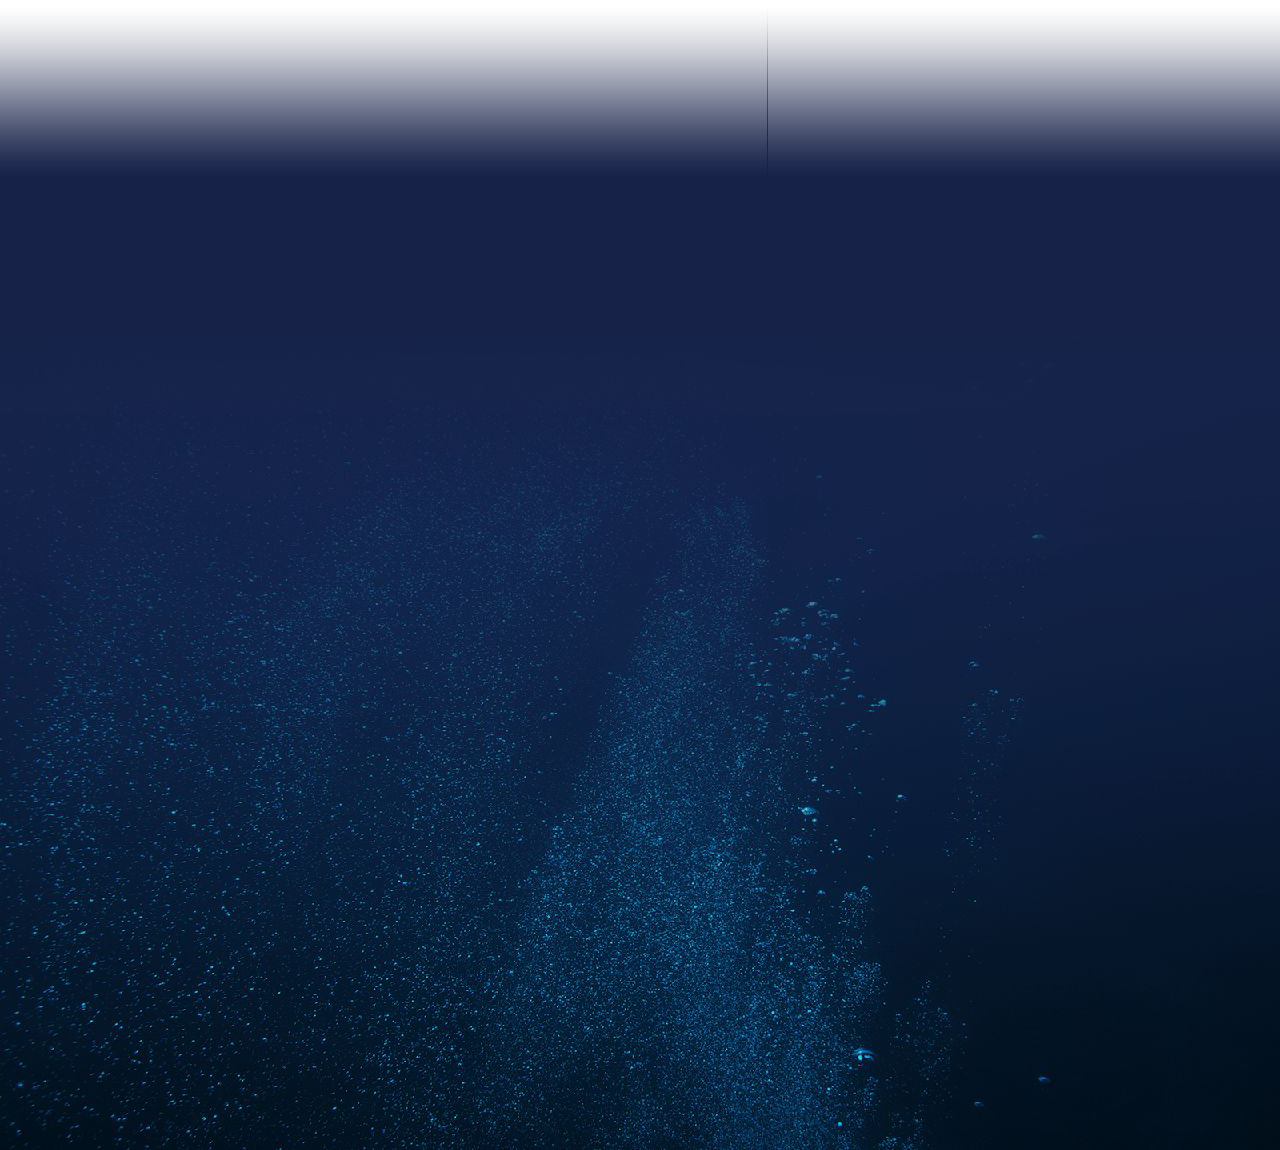
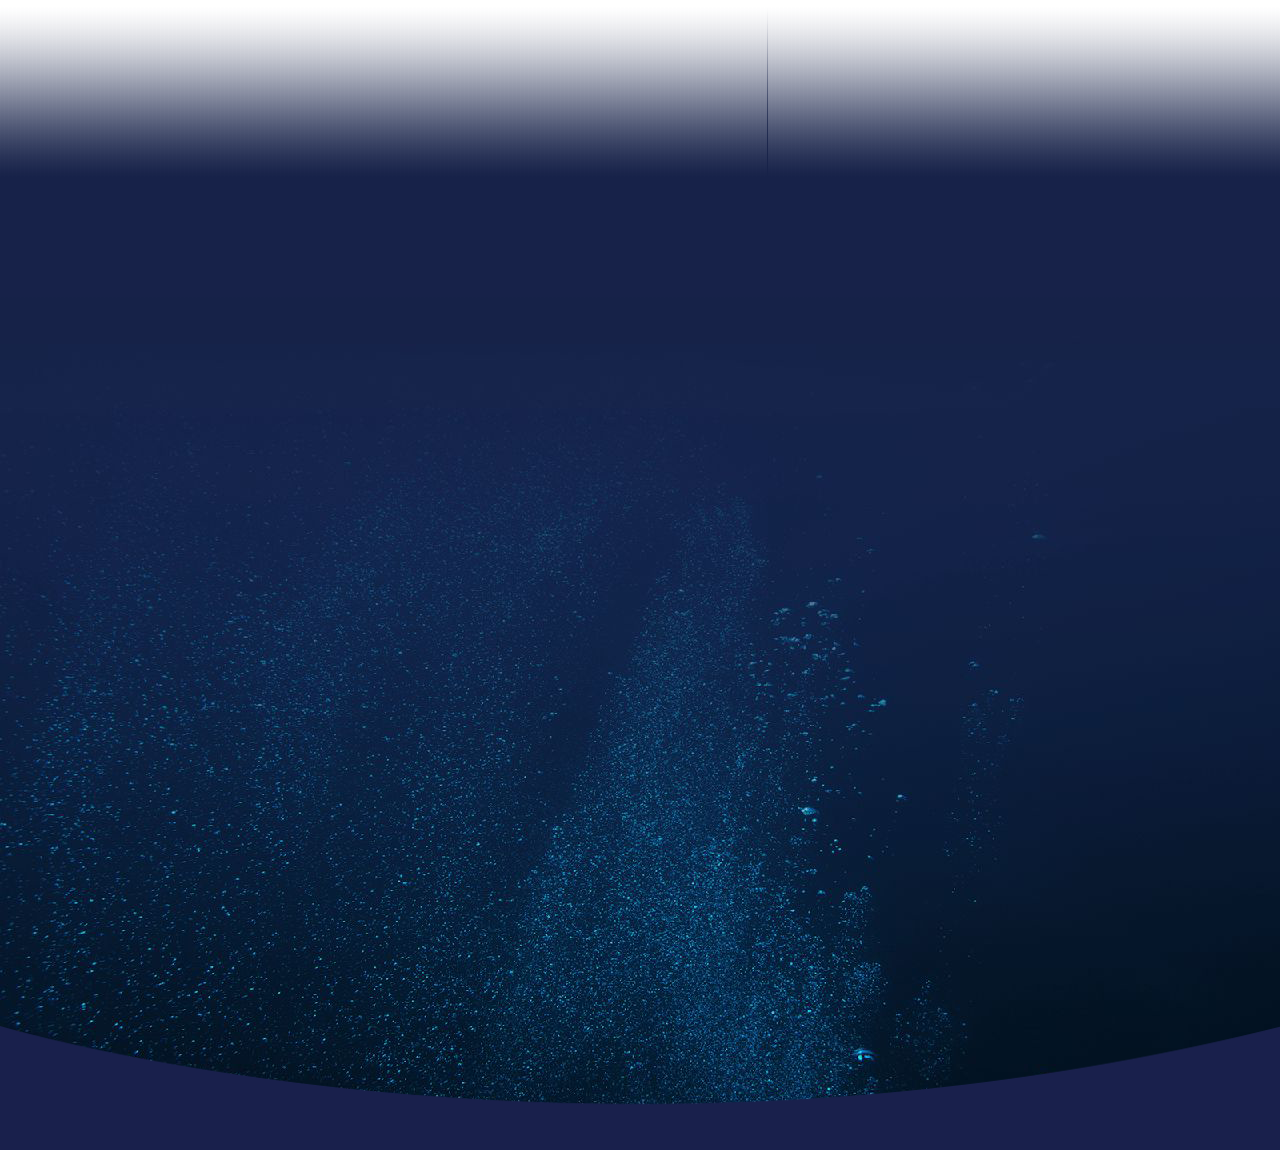
Responsive tweaks

Changed region(s): [[0.0, 0.8826, 1.0, 1.0]]

diff --git a/css/main.css b/css/main.css
@@ -177,7 +177,6 @@ header {
 /* Navigation */
 
 .top-nav-list {
-    text-transform: uppercase;
     letter-spacing: .15em;
     margin: 0;
     padding: 0;
@@ -188,6 +187,7 @@ header {
 
 .top-item {
     display: inline-block;
+    text-transform: uppercase;
 }
 
 .top-nav li {
@@ -229,8 +229,6 @@ header {
     margin: 0 -.3em;
     font-family: 'Proxima-Nova', Arial, Helvetica, sans-serif;
     font-size: .875rem;
-    font-weight: lighter;
-    text-transform: capitalize;
     position: absolute;   
 }
 
@@ -400,8 +398,8 @@ h2 {
 .jellyfish {
     position: absolute;
     z-index: 2;
-    top: 525px;
-    left: 950px;
+    top: 32.8125em;
+    left: 75%;
     background-image: url(../img/jelly.png);
     background-repeat: no-repeat;
     background-size: 100%;
@@ -420,22 +418,11 @@ h2 {
     background-position: top;
     background-size: 100% 100%;
     padding: 1em 0;
-    position: absolute;
+    position: relative;
     z-index: 3;
     min-height: 75em;
 }
 
-.bg-container:after {
-    content: '';
-    background-image: url(../img/curve.png);
-    background-size: 100% 100%;
-    background-repeat: no-repeat;
-    position: absolute;
-    bottom: 0;
-    min-width: 100%;
-    min-height: 9.375em;
-    z-index: 4;
-}
 
 .news-section {
     max-width: 77%;
@@ -468,14 +455,16 @@ h2 {
 }
 
 .news-container {
-    margin-top: 1.75em;
+    margin: 1.75em 0 10em 0;
+    display: flex;
+    justify-content: space-between;
+    flex-wrap: wrap;
 }
 
 .news-item {
     margin: .5em 1em .5em 0;
-    float: left;
-    width: 32.2%;
-    min-height: 18.5em;
+    min-width: 32.2%;
+    flex: 1;
     position: relative;
     overflow: hidden;
 }
@@ -486,6 +475,7 @@ h2 {
 
 .news-item img {
     width: 100%;
+    height: 100%;
     transform: scale(1.05);
     transition: 1s ease;
 }
@@ -561,11 +551,9 @@ h4 {
 
 
 .newsletter-signup {
-    margin-top: 76em;
     width: 100%;
     padding: 2em;
     background-color: #19204c;
-    clear: both;
 }
 
 .newsletter-signup h2 {
@@ -583,7 +571,7 @@ h4 {
     height: .125em;
     background-color: #fff;
     position: absolute;
-    top: -.8em;
+    top: -35%;
     left: 50%;
     transform: translateX(-50%);
 }
@@ -594,7 +582,7 @@ h4 {
     height: .125em;
     background-color: #fff;
     position: absolute;
-    top: 2.75em;
+    top: 125%;
     left: 50%;
     transform: translateX(-50%);
 }
@@ -695,6 +683,7 @@ footer a {
     border-bottom: .0675em solid #19204c;
     display: flex;
     justify-content: space-between;
+    flex-wrap: wrap;
     padding: 2em 0;
 }
 
@@ -824,7 +813,7 @@ footer a {
 
   .select-selected:before {
       width: 0;
-      height: 3em;
+      height: 100%;
       width: .05em;
       background-color: #19204c;
       content: '';
@@ -848,6 +837,7 @@ footer a {
 .bottom-nav-list{
     margin: 0 auto;
     display: flex;
+    flex-wrap: wrap;
     list-style-type: none;
     padding: 3em 0 2.25em 0;
     justify-content: space-between;
